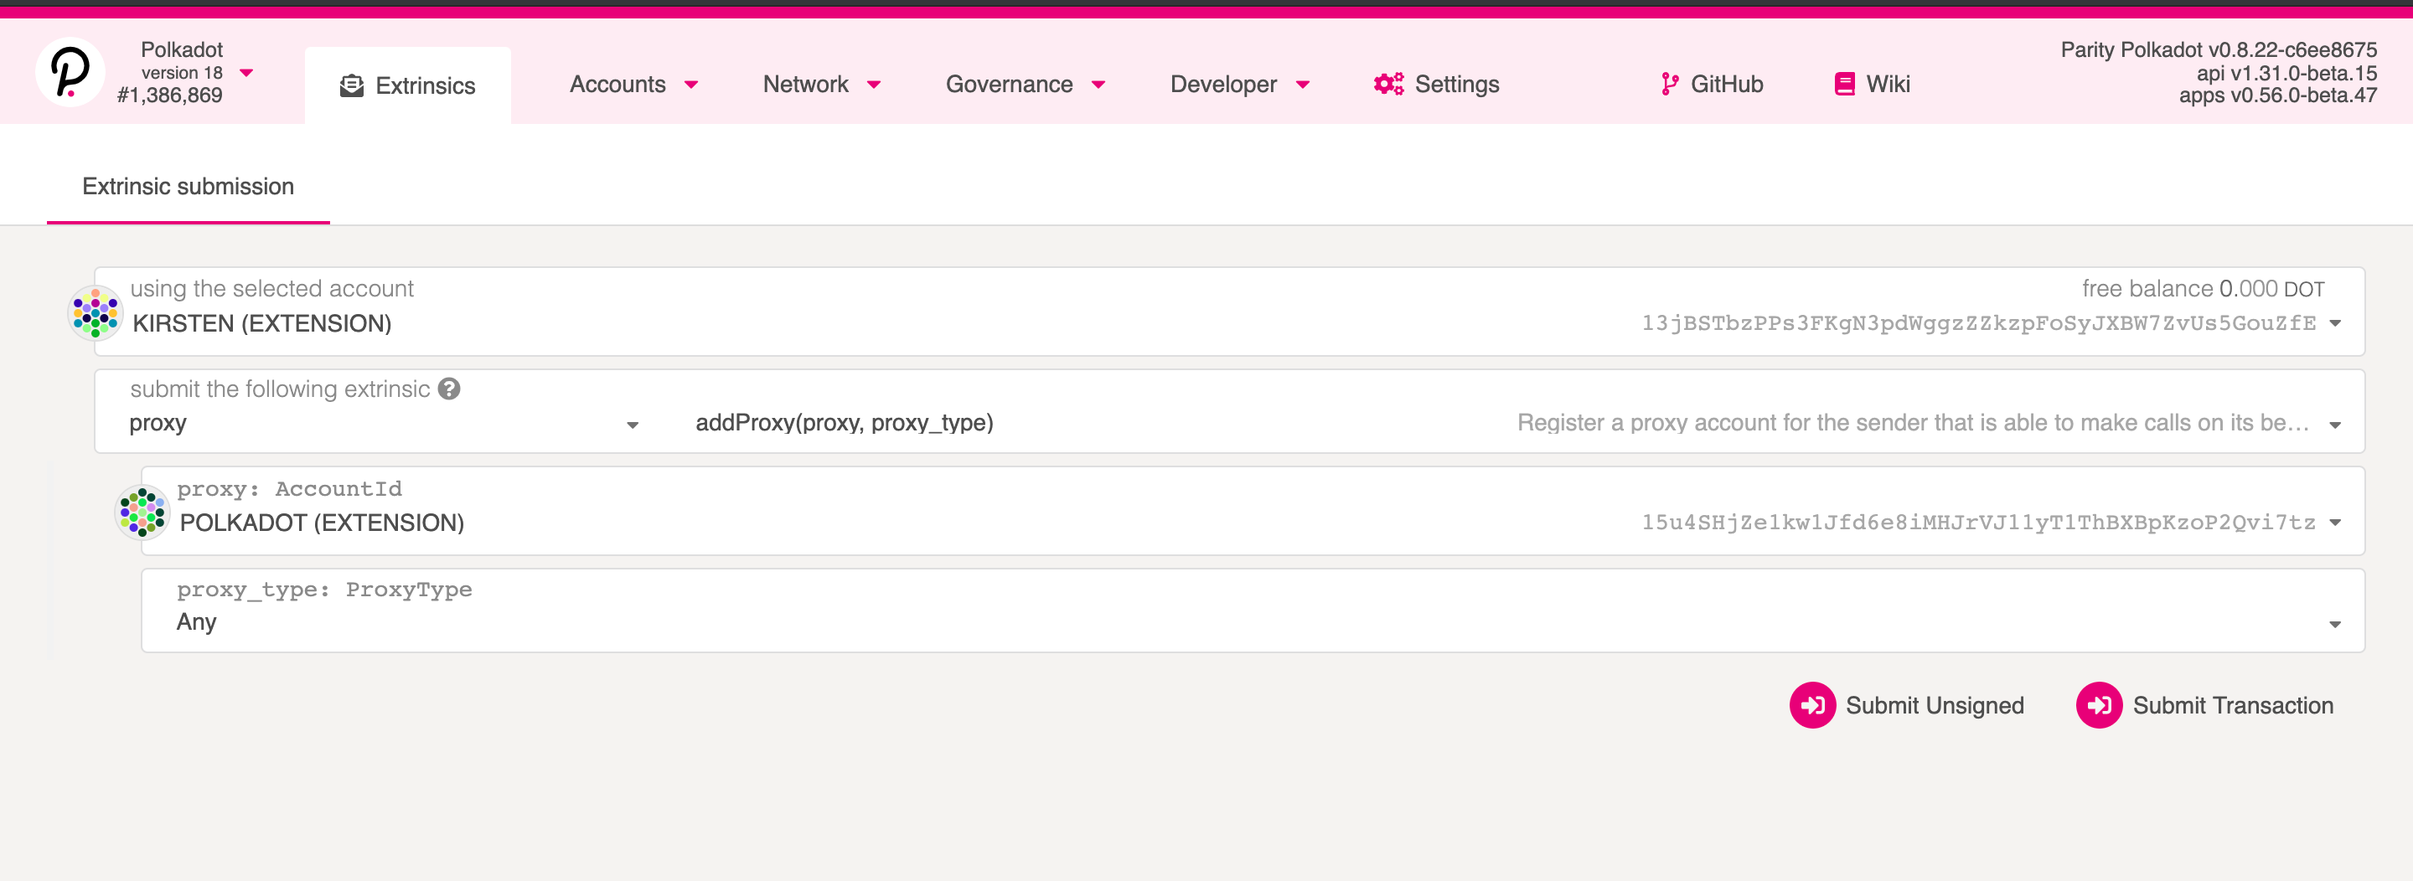
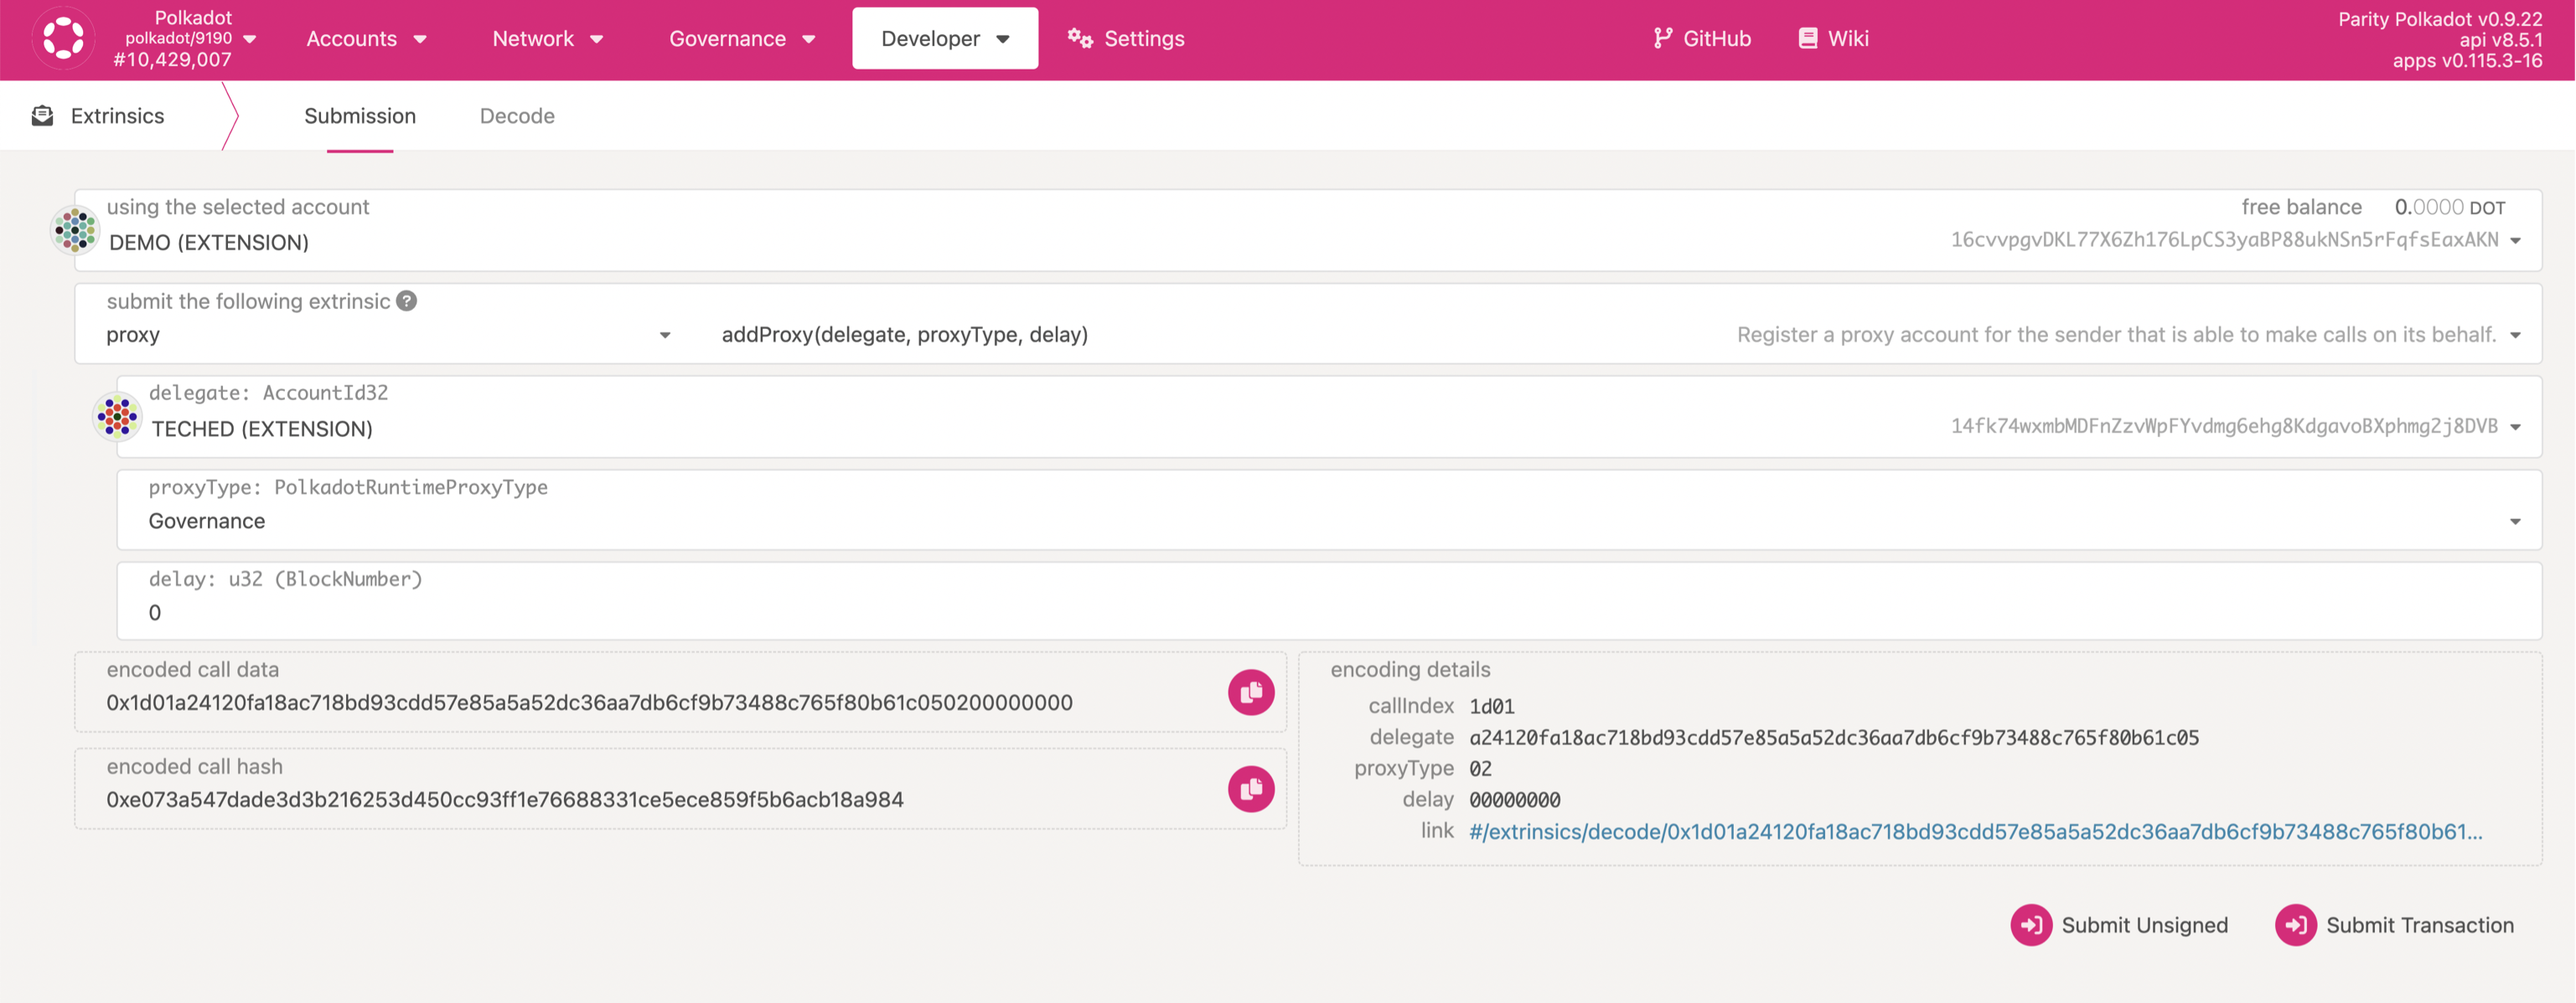
Update Proxy doc
Add new snapshots, correct info about time delayed proxies and add relevant info

diff --git a/docs/learn/learn-proxies.md b/docs/learn/learn-proxies.md
@@ -151,9 +151,22 @@ click on "Developer" > "Extrinsics". Here we will see a page that looks similar 
 
 To add a proxy, click on the pallet selection dropdown menu. The dropdown is labeled "submit the
 following extrinsic". Select the `proxy` pallet, then the `addProxy` extrinsic (in the dropdown menu
-next to it). The `addProxy(proxy, proxy_type)` function will need to be selected in order to add in
+next to it). The `addProxy(delegate, proxyType, delay)` function will need to be selected in order to add in
 a proxy. The chosen proxy account that you set will be the account that has the proxy on it. The
-selected account at the top is the account that will be the primary account.
+selected account at the top is the account that will be the primary account. When creating a proxy, 
+you are also provided a `delay` field which is by default populated with zero. Leave it as is, if you plan 
+on creating a normal proxy account.
+
+:::tip Time Delayed Proxies
+
+For instance, if you create a proxy with a `delay` value of 100, which means 100 blocks (  
+100 \* 6(seconds) = 600 seconds, or 10 minutes), the proxy calls made by this account will take
+about 10 minutes to get executed. This is done through `announce` extrinsic and then submitting
+`proxyAnnounced` extrinsic after the block delay. Within the block delay time frame, the real account 
+has a chance to reject the announcement from the proxy account. Again, if your intention is to create
+a normal proxy account, use the default value of zero in the `delay` field.
+
+:::
 
 :::caution `unused` option
 
@@ -183,13 +196,6 @@ like to set up if you choose, as well as the index.
 
 ![proxy generation](../assets/polkadot_anon_proxy.png)
 
-### Using Time Delayed Proxies
-
-When creating a proxy through the PolkadotJS application, we are provided a delay field. In this
-example we are creating a proxy with a delay value of 100, which means 100 blocks. 100 \* 6(minutes)
-= 600 minutes, or 10 hours.
-
-![creating a time delayed proxy](../assets/time_delay_proxy_screenshot.png)
 
 ### Another way to create Proxies
 
@@ -209,18 +215,27 @@ Extrinsics page.
 
 ### Removing Proxies
 
-:::warning There is no way to get access to the anonymous proxy after deleting it
+Under the accounts tab, the Polkadot-JS Apps UI shows a blue button beside the account that has proxies.
+Hovering on the blue button lets you click on a link that says "proxy overview" which displays a pop-up 
+window like the one shown below. In this pop-up window, you have an option to clear individual proxy accounts
+or all of them. Under the hood, the UI is calling the extrinsics `removeProxy` for individual accounts and
+ `removeProxies` for clearing all of the proxy accounts.
 
-If you want to remove a proxy, there are a few functions on the extrinsic page that will help do
-this.
+![Remove Proxies](../assets/remove_proxies.png)
 
-For non-anonymous proxies, you can use `removeProxy` or `removeProxies`, but must use the 
-`killAnonymous` function for anonymous proxies. This must be called **from** the *anonymous* proxy. 
+The procedure for removing an Anonymous Proxy is different and there are a few functions on the extrinsic page 
+that will help do this.
+
+
+:::warning There is no way to get access to the anonymous proxy account after deleting it
+
+`removeProxy` or `removeProxies` do not work for anonymous proxies. You must use the 
+`killAnonymous` function which must be called **from** the *anonymous* proxy. 
 This means that the anonymous proxy must be added as an account to Polkadot-JS accounts.
 
 :::
 
-The following steps can be used to remove your proxy:
+The following steps can be used to remove your anonymous proxy:
 
 - **Step 0**: You need to know the following information:
 
